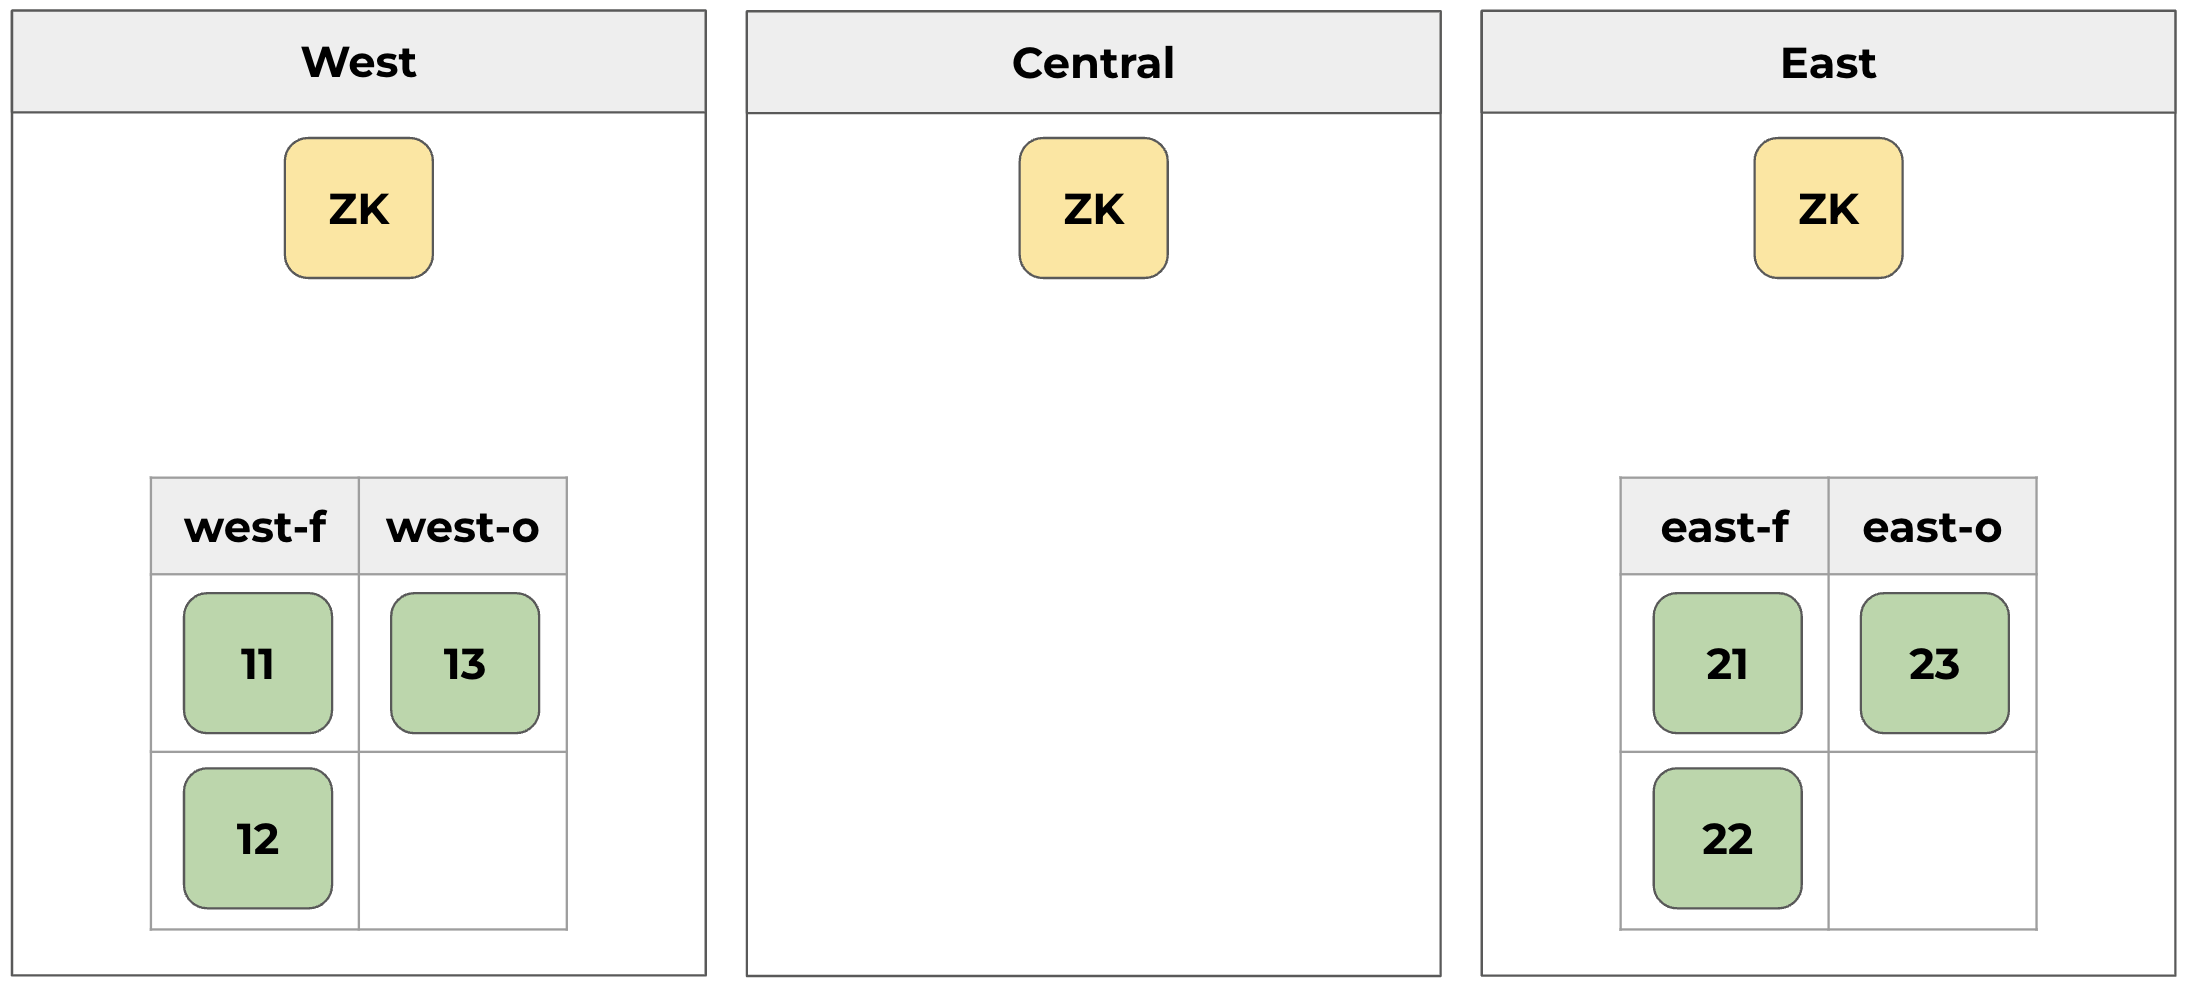
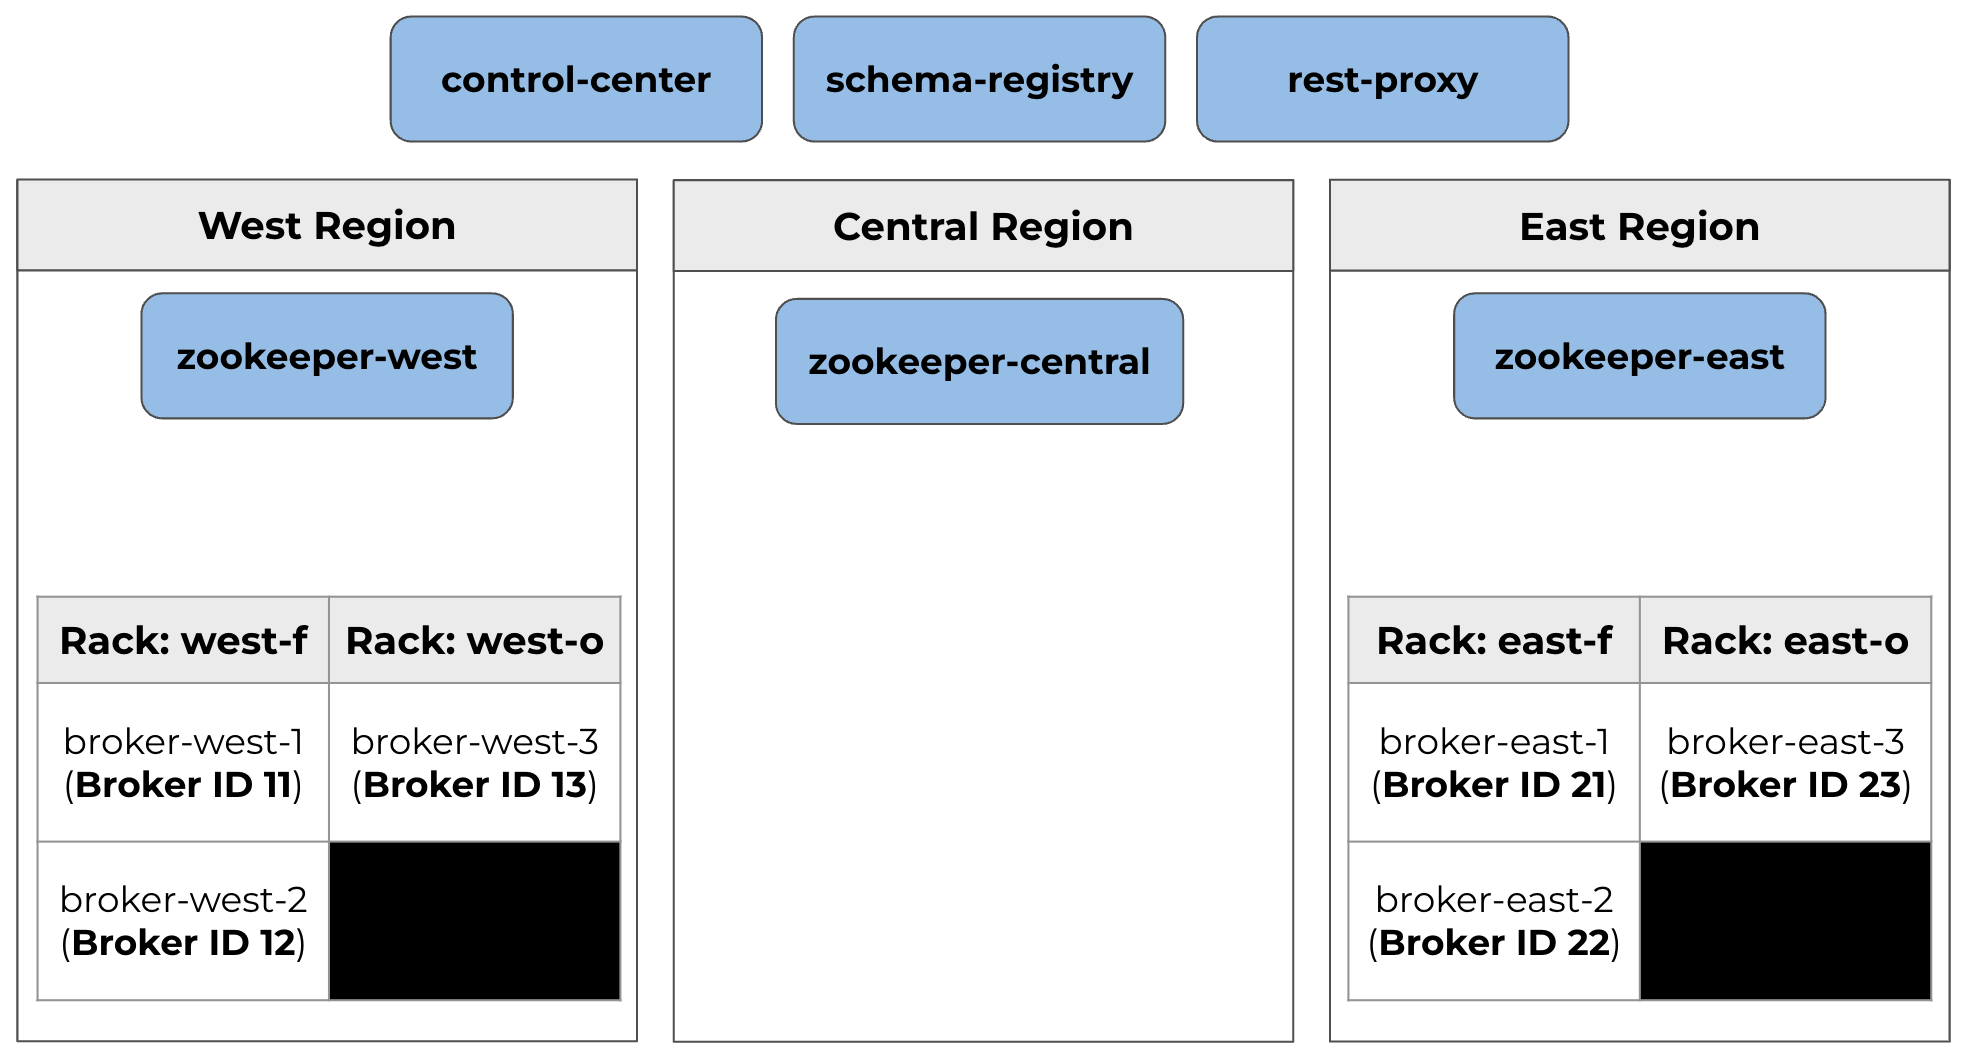
Updated images

diff --git a/README.md b/README.md
@@ -1,25 +1,77 @@
-# Confluent Platform Multi Region Cluster Demo
+# Confluent Platform Multi Region Cluster's Automatic Observer Promotion demo
+
+[Confluent Platform](https://docs.confluent.io/platform/current/platform.html) is a full-scale data streaming platform that enables you to easily access, store, and manage data as continuous, real-time streams. Built by the original creators of Apache Kafka®, Confluent expands the benefits of Kafka with enterprise-grade features while removing the burden of Kafka management or monitoring. Today, over 80% of the Fortune 100 are powered by data streaming technology – and the majority of those leverage Confluent.
+
+[Confluent Server](https://docs.confluent.io/platform/current/installation/migrate-confluent-server.html) is a component of Confluent Platform that includes Kafka and additional commercial features. Following are a few key features included in Confluent Server:
+- Role-based access control (RBAC)
+- Tiered Storage
+- Self-Balancing Clusters
+- Confluent for Kubernetes
+- Confluent Server is fully compatible with Kafka, and you can migrate in place between Confluent Server and Kafka. Confluent Server includes Kafka and a number of commercial features.
+
+
+Confluent Server is often run across [availability zones or nearby datacenters](https://docs.confluent.io/platform/current/multi-dc-deployments/multi-region.html). If the computer network between brokers across availability zones or nearby datacenters is dissimilar, in term of reliability, latency, bandwidth, or cost, this can result in higher latency, lower throughput and increased cost to produce and consume messages. To mitigate this, three distinct pieces of functionality were added to Confluent Server:
+- [Observers](https://docs.confluent.io/platform/current/multi-dc-deployments/multi-region.html#observers): Historically there are two types of replicas: leaders and followers. Multi-Region Clusters introduces a third type of replica, observers. By default, observers will not join the in-sync replicas (ISR) but will try to keep up with the leader just like a follower. With follower-fetching, clients can also consume from observers.
+- [Replica Placement](https://docs.confluent.io/platform/current/multi-dc-deployments/multi-region.html#replica-placement): how to assign replicas to the partitions in a topic
+- [Follower-Fetching](https://docs.confluent.io/platform/current/multi-dc-deployments/multi-region.html#follower-fetching): Before the introduction of this feature, all consume and produce operations took place on the leader. With Multi-Region Clusters, clients are allowed to consume from followers. This dramatically reduces the amount of cross-datacenter traffic between clients and brokers.
+
+
+Automatic Observer Promotion was a feature added to Confluent Platform 6.1, bringing fast and safe multi-datacenter failover. See a great article about that [here](https://www.confluent.io/en-gb/blog/automatic-observer-promotion-for-safe-multi-datacenter-failover-in-confluent-6-1).
+
+
+This demo will show how Automatic Observer Promotion works in practise!
 
 ## Requirements:
 - [Docker Desktop + Compose](https://www.docker.com/products/docker-desktop)
 - Web browser
 
 ## :white_check_mark: Start the demo
-- Start the services: `docker-compose up -d`
-- 2.5 Multi-Region-Cluster:
+Demo architecture ([Stretched Cluster 2.5 Data Center](https://docs.confluent.io/platform/current/multi-dc-deployments/multi-region-architectures.html#stretched-cluster-2-5-data-center-cp-only)):
 ![image](imgs/img-001.png)
-- Wait around 60 seconds or so and check that services are running: `docker-compose ps`
-- Check everything is healthy by pointing a browser at http://localhost:9021
-- Create topics: `./scripts/create-topics.sh`
+
+Run the script: `./scripts/start-demo.sh`
 ```
+Check if docker is running...
+
+Starting up docker compose (Confluent Platform version 7.4.1)...
+[+] Running 14/14
+ ✔ Network multi-region-clusters_default  Created
+ ✔ Container zookeeper-west               Started
+ ✔ Container zookeeper-east               Started
+ ✔ Container zookeeper-central            Started
+ ✔ Container broker-ccc                   Started
+ ✔ Container broker-west-3                Started
+ ✔ Container broker-east-2                Started
+ ✔ Container broker-east-3                Started
+ ✔ Container broker-west-2                Started
+ ✔ Container broker-east-1                Started
+ ✔ Container broker-west-1                Started
+ ✔ Container schema-registry              Started
+ ✔ Container control-center               Started
+ ✔ Container rest-proxy                   Started
+
+Waiting for Kafka cluster to be ready..........
+
+Zookeeper status:
+
+==> Zookeeper  2181
+Latency min/avg/max: 0/1.3946/9
+Mode: follower
+
+==> Zookeeper  2182
+Latency min/avg/max: 0/1.8902/63
+Mode: follower
+
+==> Zookeeper  2183
+Latency min/avg/max: 0/1.6167/5
+Mode: leader
+
 ==> Creating topic t1
 Created topic t1.
 
 ==> Creating topic t1-obs
 Created topic t1-obs.
-```
-- Examine the topic descriptions, note leaders, replicas, observers, and min-insync-replica configurations: `./scripts/describe-topics.sh`
-```
+
 ==> Describing topic: t1
 Topic: t1       TopicId: 2t8WVau3RXSGa8kcMWdsdQ PartitionCount: 1       ReplicationFactor: 4
 Configs: min.insync.replicas = 3
@@ -83,23 +135,28 @@ confluent.placement.constraints =
   Offline:
   Observers: 13,23
 ```
+
+Check everything is healthy by pointing a browser at http://localhost:9021
+
+Topic's partition distribution should be as follows (in case not it will be very similar):
 ![image](imgs/img-002.png)
 
-- Run producers and consumers (do each of these in a different terminal):
+Run producers and consumers (do each of these in a different terminal):
   - Terminal 1: `./scripts/producer-t1.sh`
   - Terminal 2: `./scripts/consumer-t1.sh`
   - Terminal 3: `./scripts/producer-t1-obs.sh`
   - Terminal 4: `./scripts/consumer-t1-obs.sh`
-<br><br>
-- Simulate failure of a Data Center by stopping all the west brokers: `docker-compose stop broker-west-1 broker-west-2 broker-west-3`
-  - Notice how the producer for t1 gets producer errors:
+
+
+Simulate failure of the Data Center West: `./scripts/dc-west-stop.sh`
+- Notice how the producer for `t1` gets producer errors:
 ```
 ERROR Error when sending message to topic t1 with key: null, value: 36 bytes with error: (org.apache.kafka.clients.producer.internals.ErrorLoggingCallback)
 org.apache.kafka.common.errors.NotEnoughReplicasException: Messages are rejected since there are fewer in-sync replicas than required.
 ```
-  - However the producer to `t1-obs` continues uninterrupted
-  - Note both producers may get metadata refresh messages
-  - Describe the topics: `./scripts/describe-topics.sh`
+- However the producer to `t1-obs` continues uninterrupted
+- Note both producers may get metadata refresh messages
+- Describe the topics: `./scripts/describe-topics.sh`
 ```
 ==> Describing topic: t1
 Topic: t1       TopicId: 2t8WVau3RXSGa8kcMWdsdQ PartitionCount: 1       ReplicationFactor: 4
@@ -165,18 +222,20 @@ confluent.placement.constraints =
 ```
 ![image](imgs/img-003.png)
 
-  - Notice how:
-    - both topics have gone through leader election
-    - t1 has 2 in-sync-replicas, and this is below the minimum of 3
-    - t1-obs has 3 in-sync-replicas because the observer has joined the in-sync-replica list
-<br><br>
-- Restart the west brokers (notice that the producer for t1 starts producing again - producers may get metadata messages): `docker-compose start broker-west-1 broker-west-2 broker-west-3`
-- Describe the topics (depending on when this is run, leader election may have run restoring the original leader): `./scripts/describe-topics.sh`
-<br><br>
-- Simulate Zookeeper failures:
-  - Stop one zookeeper: `docker-compose stop zookeeper-west`
+- Notice how:
+  - both topics have gone through leader election
+  - `t1` has 2 in-sync-replicas, and this is below the minimum of 3
+  - `t1-obs` has 3 in-sync-replicas because the observer has joined the in-sync-replica list
+
+Restablish Data Center West: `./scripts/dc-west-start.sh`
+ - notice that the producer for `t1` starts producing again - producers may get metadata messages
+
+Describe the topics: `./scripts/describe-topics.sh`
+ - depending on when this is run, leader election may have run restoring the original leader
+
+Simulate Zookeeper failures:
+- Stop zookeeper west: `./scripts/zk-west-stop.sh`
 ![image](imgs/img-004.png)
-  - Check zookeeper status: `./scripts/zookeeper-status.sh`
 ```
 ==> Zookeeper  2181
 OFFLINE!
@@ -189,10 +248,10 @@ Mode: follower
 Latency min/avg/max: 0/1.0325/38
 Mode: leader
 ```
-  - Running the command `./scripts/describe-topics.sh` will produce an output as at least two zookeepers are running
-  - Stop another zookeeper: `docker-compose stop zookeeper-central`
+- Running the command `./scripts/describe-topics.sh` will produce an output as at least two zookeepers are running
+
+- Stop zookeeper central: `./scripts/zk-central-stop.sh`
 ![image](imgs/img-005.png)
-  - Check zookeeper status: `./scripts/zookeeper-status.sh`
 ```
 ==> Zookeeper  2181
 OFFLINE!
@@ -203,9 +262,8 @@ OFFLINE!
 ==> Zookeeper  2183
 This ZooKeeper instance is not currently serving requests
 ```
-  - Running the command `./scripts/describe-topics.sh` will not produce an output as there is no zookeeper quorum anymore
-  - Restart zookeepers: `docker-compose start zookeeper-west zookeeper-central`
-  - Check zookeeper status: `./scripts/zookeeper-status.sh`
+- Running the command `./scripts/describe-topics.sh` will not produce an output as there is no zookeeper quorum anymore
+- Restart zookeepers: `./scripts/zk-start.sh`
 ```
 ==> Zookeeper  2181
 Latency min/avg/max: 6/6.0/6
@@ -219,14 +277,35 @@ Mode: follower
 Latency min/avg/max: 0/0.8/1
 Mode: leader
 ```
-- Simulate observer catch up
-  - Stop the brokers that host the observer replicas: `docker-compose stop broker-west-3 broker-east-3`
-  - The observer replicas will now fall behind the regular replicas
-  - Stop the remaining brokers in the west data center: `docker-compose stop broker-west-1 broker-west-2`
-  - Note how this time the producer for `t1-obs` starts getting "not enough replica" errors as the observer cannot join the ISR list
-  - Start the broker with the observer: `docker-compose start broker-east-3`
-  - Note how the broker starts, the observer catches up and joins the ISR list
-  - The producer can now carry on as before
+
+Simulate observer catch up:
+- Stop the brokers that host the observer replicas: `docker-compose stop broker-west-3 broker-east-3`
+- The observer replicas will now fall behind the regular replicas
+- Stop the remaining brokers in the west data center: `docker-compose stop broker-west-1 broker-west-2`
+- Note how this time the producer for `t1-obs` starts getting "not enough replica" errors as the observer cannot join the ISR list
+- Start the broker with the observer: `docker-compose start broker-east-3`
+- Note how the broker starts, the observer catches up and joins the ISR list
+- The producer can now carry on as before
 
 ## :x: Stop the demo
-- Stop the services: `docker-compose down`
+- Run the script: `./scripts/stop-demo.sh`
+```
+Check if docker is running...
+
+Stopping up docker compose...
+[+] Running 14/14
+ ✔ Container control-center               Removed 
+ ✔ Container rest-proxy                   Removed 
+ ✔ Container schema-registry              Removed
+ ✔ Container broker-east-3                Removed 
+ ✔ Container broker-west-3                Removed
+ ✔ Container broker-east-1                Removed 
+ ✔ Container broker-west-1                Removed 
+ ✔ Container broker-west-2                Removed 
+ ✔ Container broker-east-2                Removed 
+ ✔ Container broker-ccc                   Removed 
+ ✔ Container zookeeper-east               Removed 
+ ✔ Container zookeeper-west               Removed
+ ✔ Container zookeeper-central            Removed
+ ✔ Network multi-region-clusters_default  Removed
+```
